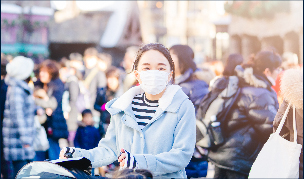
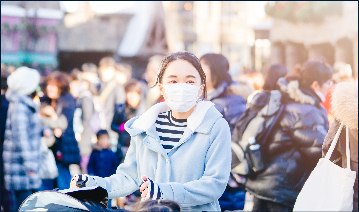
initial commit

diff --git a/css/style.css b/css/style.css
@@ -160,7 +160,7 @@ p,a{
 }
 .second-third-wrap-section .second-section .image{
     position: absolute;
-    top: -220px;
+    top: -240px;
     left: -220px;
 }
 .second-third-wrap-section .second-section .mask{
